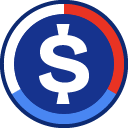
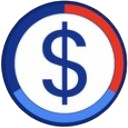
Added new USDST address; adjusted USDST migration code; added new USDST image

diff --git a/payment-server/helpers/emailTemplate.js b/payment-server/helpers/emailTemplate.js
@@ -177,13 +177,13 @@ function generateHtmlContent(customerFirstName, concatenatedOrderString) {
       const multiplier = new BigNumber(10).pow(decimalPlaces);
     
       let itemName = decodeURIComponent(orderItem.name);
-      let itemPrice = unitPrice.multipliedBy(multiplier).toFixed(2);
-      let itemQty = quantity.dividedBy(multiplier).toString();
-      let itemTotal = (itemPrice.multipliedBy(itemQty)).toFixed(2); 
+      let itemPrice = unitPrice.multipliedBy(multiplier);
+      let itemQty = quantity.dividedBy(multiplier);
+      let itemTotal = (itemPrice.multipliedBy(itemQty)); 
   
       concatenatedOrderString += `${itemName}:\n`; 
-      concatenatedOrderString += `$${itemTotal} <br>`; 
-      concatenatedOrderString += `Qty: ${itemQty} &nbsp; $${itemPrice} each<br><br>`; 
+      concatenatedOrderString += `$${itemTotal.toFixed(2)} <br>`; 
+      concatenatedOrderString += `Qty: ${itemQty.toFixed(2)} &nbsp; $${itemPrice.toFixed(2)} each<br><br>`; 
       orderTotal += parseFloat(itemTotal); 
       if (i === orderData.length - 1) {
         concatenatedOrderString += `<hr style="border-top: 1px dotted #0A1B71; min-width: 80%; max-width: 80%; margin-left: 15px;">`;

diff --git a/marketplace/backend/helpers/constants.js b/marketplace/backend/helpers/constants.js
@@ -38,7 +38,7 @@ export default {
   prodStratsAddress: 'd2810818e0401e85693f83107ed2b96faeed329c',
   testnetStratsAddress: '5375b8b1c691201acf16a72612d82ed438951a04',
   prodUSDSTAddress: '',
-  testnetUSDSTAddress: 'bbb0e060f3f43c533d5b5f0250ff473de831e5e4',
+  testnetUSDSTAddress: '82b64c5944c568f7dc784fb3699cd63377452f39',
   prodCataAddress: '2680dc6693021cd3fefb84351570874fbef8332a',
   testnetCataAddress: '051cb99bca7c437f4b17dc01bd4ff7c5e09db035',
   testnetETHSTAddress: '921e3d0b4217c7e2bfe7e660cdc4f7edc621f9d5',

diff --git a/utils/dev-scripts/migrate-strats/migrate-strats.py b/utils/dev-scripts/migrate-strats/migrate-strats.py
@@ -10,7 +10,7 @@ mercata_username  = os.getenv("MINTER_USERNAME")
 mercata_password  = os.getenv("MINTER_PASSWORD")
 mercata_node      = os.getenv("NODE_ENDPOINT") 
 keycloak_endpoint = os.getenv("KEYCLOAK_ENDPOINT")
-strat_root_address     = os.getenv("STRAT_ROOT_ADDRESS")
+strat_asset_address     = os.getenv("STRAT_ASSET_ADDRESS")
 usdst_address     = os.getenv("USDST_ASSET_ADDRESS")
 cirrus_endpoint   = "/cirrus/search/"
 
@@ -38,16 +38,14 @@ def transform_response_to_tuple_list(response_data):
 def generate_tx(address, balance):
     return {
         "payload": {
-            "contractName": "USDSTToken",
+            "contractName": "Tokens",
             "contractAddress": usdst_address,
             "method": "automaticTransfer",
             "args": {
                 "_newOwner": address,
                 "_price": 0.000000000000000001,
                 "_quantity": balance * (10**14),
-                "_transferNumber": int(uid()),
-                "_description": "<p><strong>What is USDST</strong></p><p style=\"text-align: start\"></p><p style=\"text-align: start\"><strong><span style=\"font-size: 12px\">Loyalty Points</span></strong><span style=\"font-size: 12px\">: USDST are digital points that are roughly pegged to the US dollar and provided to customers for their participation and interactions on the STRATO Mercata Marketplace.</span></p><p style=\"text-align: start\"><strong><span style=\"font-size: 12px\">Reward Mechanism</span></strong><span style=\"font-size: 12px\">: USDST are part of our rewards system, designed to incentivize and recognize engagement and loyalty.</span></p><p style=\"text-align: start\"><strong><span style=\"font-size: 12px\">Redeemable Assets</span></strong><span style=\"font-size: 12px\">: Customers can use their USDST to redeem marketplace items, and access special offers.</span></p><p style=\"text-align: start\"><strong><span style=\"font-size: 12px\">Empowering the Community</span></strong><span style=\"font-size: 12px\">: By engaging with USDST, you're not just earning rewards; you're actively contributing to the development and success of the Mercata protocol, embodying the spirit of decentralized growth.</span></p><p style=\\\"text-align: start\\\"><span style=\\\"font-size: 12px\\\">For more information, please refer to the VIP Program Terms of Use found on the&nbsp;</span><a target=\\\"_blank\\\" rel=\\\"noopenernoreferrernofollow\\\" href="https://blockapps.net/"><span style=\\\"color: #0000ff;font-size: 12px;color: #0000ff\\\">BlockApps website</span></a><span style=\\\"font-size: 12px\\\">.</span></p>",
-                "_name": "USDST",
+                "_transferNumber": int(uid())
             }
         },
         "type": "FUNCTION"
@@ -78,7 +76,7 @@ def main():
     }
 
     # Get the balances and create a list of tuples that contains (address, balance)
-    balances_endpoint = mercata_node + cirrus_endpoint + "BlockApps-Mercata-Asset?select=owner,quantity&root=eq." + strat_root_address + "&ownerCommonName=neq." + mercata_username
+    balances_endpoint = mercata_node + cirrus_endpoint + "BlockApps-Mercata-Asset?select=owner,quantity&root=eq." + strat_asset_address + "&ownerCommonName=neq." + mercata_username
     response = requests.get(balances_endpoint, headers=headers)
     balances = transform_response_to_tuple_list(response.json())
 
